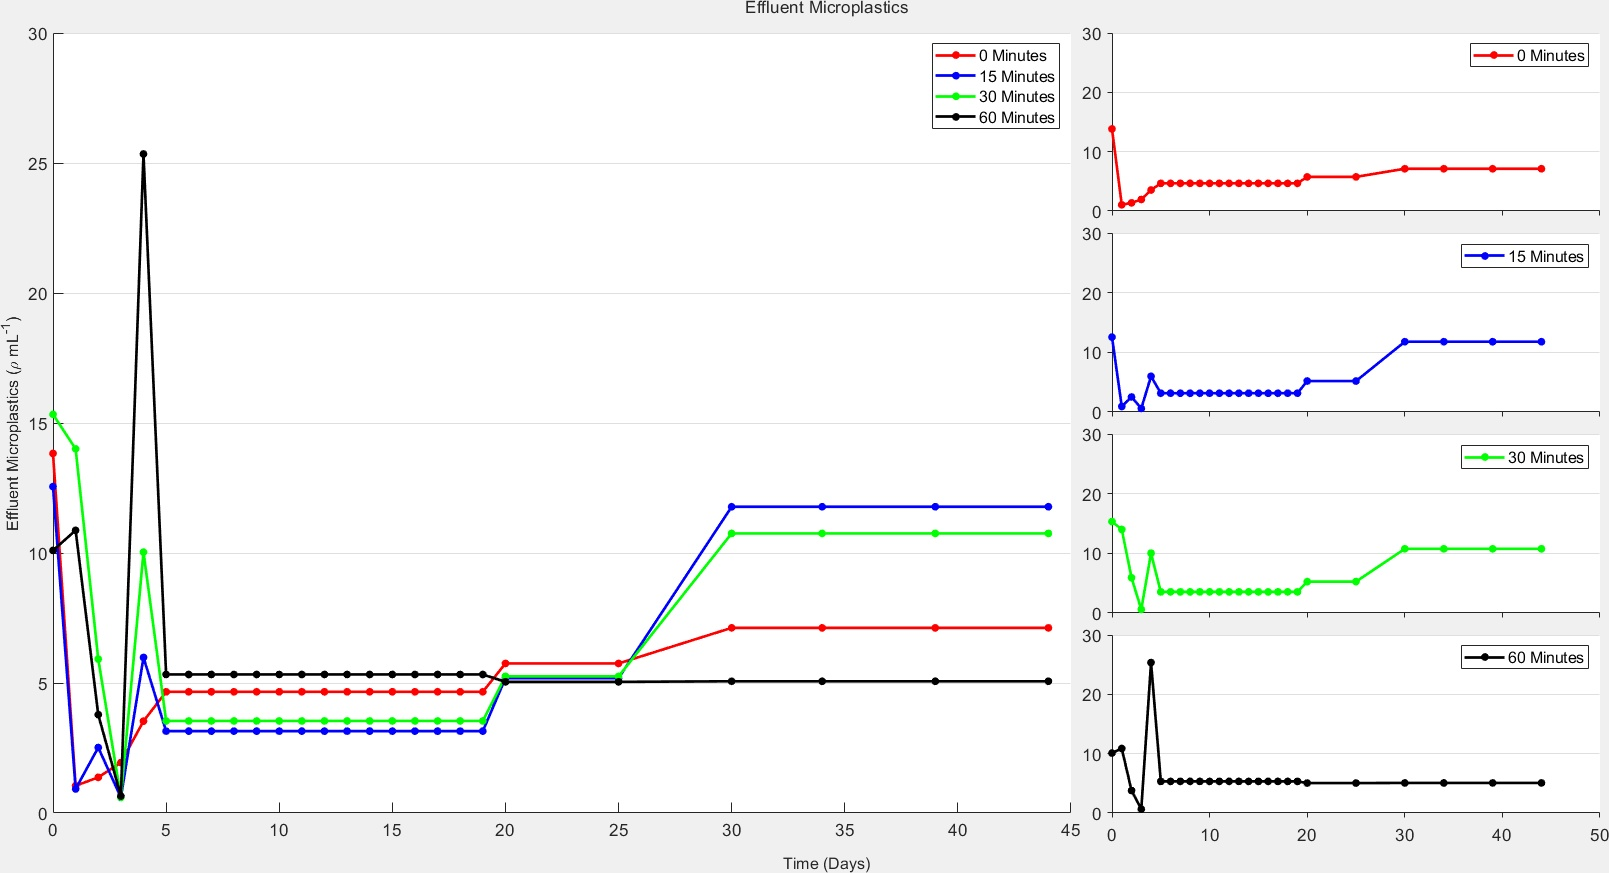
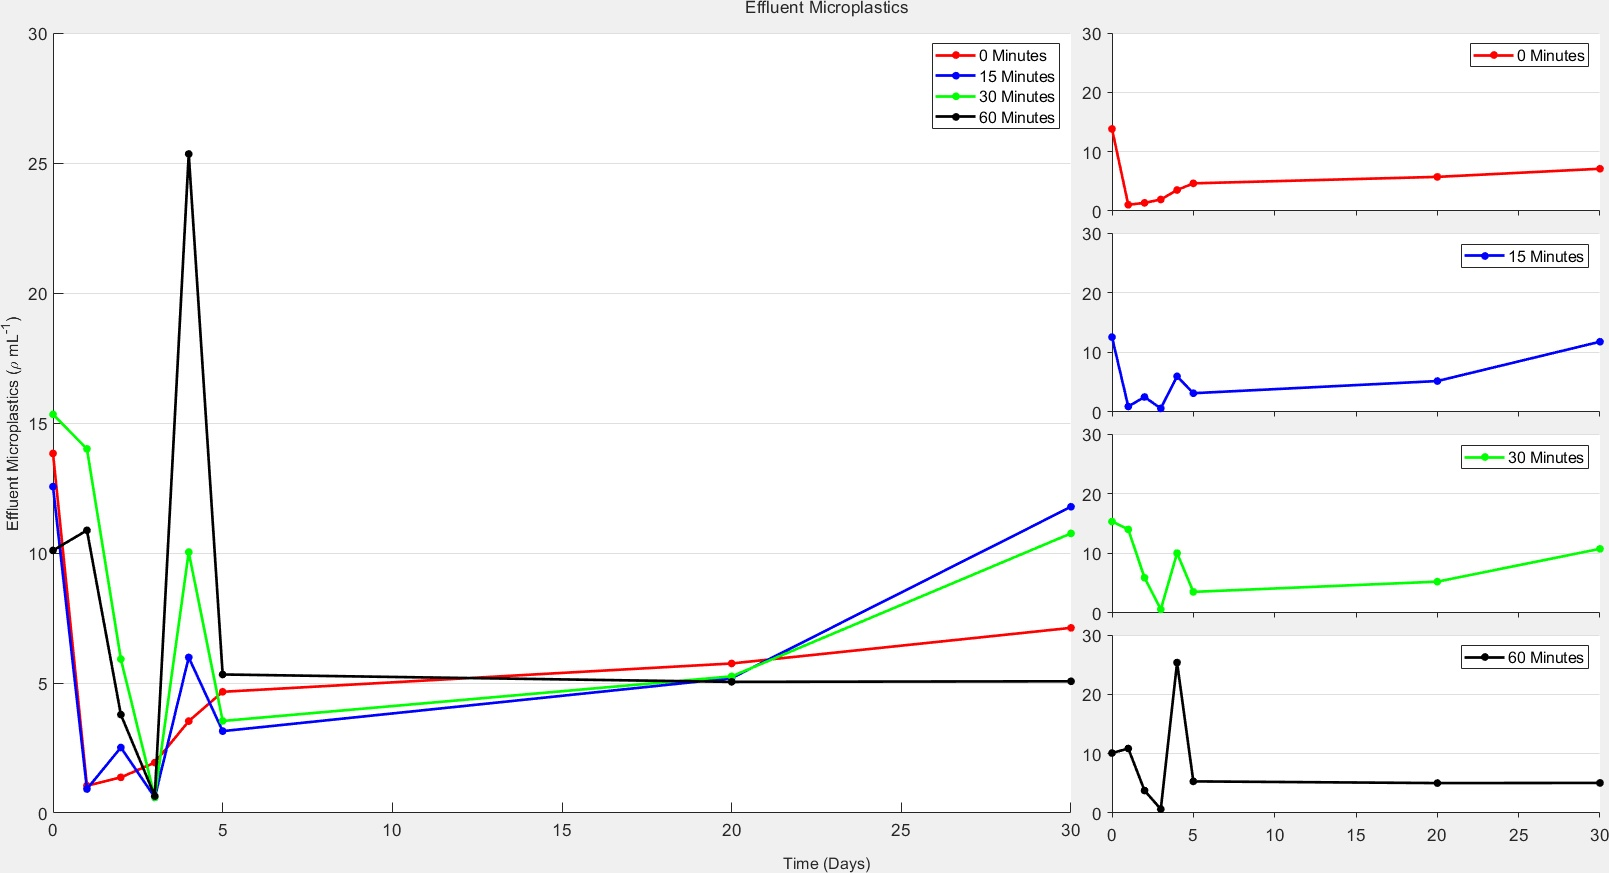
Add files via upload
Place holder / fake data points have been removed. 8 Complete days of data were collected and graphed—only line graphs, not the box plots. Box plots will be continued in the future.

diff --git a/MP_Effluent_Analysis/MP_Effluent_Analysis_Code.m b/MP_Effluent_Analysis/MP_Effluent_Analysis_Code.m
@@ -52,94 +52,6 @@ end
 
 save('MP_Effluent_Analysis_Data.mat');
 
-T = [0:20,25,30,34,39,44];
-
-% % This is a 4x3 tiledlayout graph with everything centered
-% % CHAOS!!!!!!!!!!!!!!!!!!!!!!!
-% 
-% Effluent_Analysis = figure('DefaultAxesFontSize', 14);
-% 
-% All_Effluent = tiledlayout(4,3);
-% 
-% nexttile(1,[4 2])
-% hold
-% plot(T,A,'r.-','MarkerSize',20,'LineWidth',2)
-% plot(T,B,'b.-','MarkerSize',20,'LineWidth',2)
-% plot(T,C,'g.-','MarkerSize',20,'LineWidth',2)
-% plot(T,D,'k.-','MarkerSize',20,'LineWidth',2)
-% ax = gca;
-% ax.XGrid = 'off';
-% ax.YGrid = 'on';
-% legend('0 Minutes','15 Minutes','30 Minutes','60 Minutes')
-% %xticks([0:20]) xlim([-1 21])
-% ylim([0 30])
-% hold
-% 
-% nexttile(3)
-% hold
-% plot(T,A,'r.-','MarkerSize',20,'LineWidth',2)
-% 
-% %xticks([0:20]) xlim([-1 21])
-% ylim([0 30])
-% ax = gca;
-% ax.XGrid = 'off';
-% ax.YGrid = 'on';
-% set(gca,'xticklabel','','tickdir','out')
-% legend('0 Minutes')
-% hold
-% 
-% nexttile(6)
-% hold
-% plot(T,B,'b.-','MarkerSize',20,'LineWidth',2)
-% 
-% %xticks([0:20]) xlim([-1 21])
-% ylim([0 30])
-% ax = gca;
-% ax.XGrid = 'off';
-% ax.YGrid = 'on';
-% set(gca,'xticklabel','','tickdir','out')
-% legend('15 Minutes')
-% hold
-% 
-% nexttile(9)
-% hold
-% plot(T,C,'g.-','MarkerSize',20,'LineWidth',2)
-% 
-% %xticks([0:20]) xlim([-1 21])
-% ylim([0 30])
-% ax = gca;
-% ax.XGrid = 'off';
-% ax.YGrid = 'on';
-% set(gca,'xticklabel','','tickdir','out')
-% legend('30 Minutes')
-% hold
-% 
-% nexttile(12)
-% hold
-% plot(T,D,'k.-','MarkerSize',20,'LineWidth',2)
-% 
-% %xticks([0:20]) xlim([-1 21])
-% ylim([0 30])
-% ax = gca;
-% ax.XGrid = 'off';
-% ax.YGrid = 'on';
-% set(gca,'tickdir','out')
-% legend('60 Minutes')
-% hold
-% 
-% All_Effluent.TileSpacing = 'tight';
-% All_Effluent.Padding = 'compact';
-% title(All_Effluent,'Effluent Microplastics')
-% xlabel(All_Effluent,'Time (Days)')
-% ylabel(All_Effluent,'Effluent Microplastics (\rho mL^{-1})')
-% 
-% Effluent_Analysis.WindowState = 'maximized';
-% 
-% export_fig(Effluent_Analysis,'Effluent_Analysis.png','-transparent')
-% 
-% Effluent_Analysis.WindowState = 'maximized';
-% export_fig(Effluent_Analysis,'Effluent_Analysis.jpg')
-
 Plastic = [A' B' C' D'];
 Real1 = Plastic(1:6,:);
 Real2 = Plastic(21,:);
@@ -151,14 +63,113 @@ B = Plastic(:,2);
 C = Plastic(:,3);
 D = Plastic(:,4);
 
-figure()
-boxplot(A)
-figure()
-boxplot (B)
-figure()
-boxplot(C)
-figure()
-boxplot(D)
+T = [0,1,2,3,4,5,20,30];
 
-figure()
-boxchart(Plastic)
+% This is a 4x3 tiledlayout graph with everything centered
+% CHAOS!!!!!!!!!!!!!!!!!!!!!!!
+
+Effluent_Analysis = figure('DefaultAxesFontSize', 14);
+
+All_Effluent = tiledlayout(4,3);
+
+nexttile(1,[4 2])
+hold
+plot(T,A,'r.-','MarkerSize',20,'LineWidth',2)
+plot(T,B,'b.-','MarkerSize',20,'LineWidth',2)
+plot(T,C,'g.-','MarkerSize',20,'LineWidth',2)
+plot(T,D,'k.-','MarkerSize',20,'LineWidth',2)
+ax = gca;
+ax.XGrid = 'off';
+ax.YGrid = 'on';
+legend('0 Minutes','15 Minutes','30 Minutes','60 Minutes')
+%xticks([0:20]) xlim([-1 21])
+ylim([0 30])
+hold
+
+nexttile(3)
+hold
+plot(T,A,'r.-','MarkerSize',20,'LineWidth',2)
+
+%xticks([0:20]) xlim([-1 21])
+ylim([0 30])
+ax = gca;
+ax.XGrid = 'off';
+ax.YGrid = 'on';
+set(gca,'xticklabel','','tickdir','out')
+legend('0 Minutes')
+hold
+
+nexttile(6)
+hold
+plot(T,B,'b.-','MarkerSize',20,'LineWidth',2)
+
+%xticks([0:20]) xlim([-1 21])
+ylim([0 30])
+ax = gca;
+ax.XGrid = 'off';
+ax.YGrid = 'on';
+set(gca,'xticklabel','','tickdir','out')
+legend('15 Minutes')
+hold
+
+nexttile(9)
+hold
+plot(T,C,'g.-','MarkerSize',20,'LineWidth',2)
+
+%xticks([0:20]) xlim([-1 21])
+ylim([0 30])
+ax = gca;
+ax.XGrid = 'off';
+ax.YGrid = 'on';
+set(gca,'xticklabel','','tickdir','out')
+legend('30 Minutes')
+hold
+
+nexttile(12)
+hold
+plot(T,D,'k.-','MarkerSize',20,'LineWidth',2)
+
+%xticks([0:20]) xlim([-1 21])
+ylim([0 30])
+ax = gca;
+ax.XGrid = 'off';
+ax.YGrid = 'on';
+set(gca,'tickdir','out')
+legend('60 Minutes')
+hold
+
+All_Effluent.TileSpacing = 'tight';
+All_Effluent.Padding = 'compact';
+title(All_Effluent,'Effluent Microplastics')
+xlabel(All_Effluent,'Time (Days)')
+ylabel(All_Effluent,'Effluent Microplastics (\rho mL^{-1})')
+
+Effluent_Analysis.WindowState = 'maximized';
+
+export_fig(Effluent_Analysis,'Effluent_Analysis.png','-transparent')
+
+Effluent_Analysis.WindowState = 'maximized';
+export_fig(Effluent_Analysis,'Effluent_Analysis.jpg')
+
+% Plastic = [A' B' C' D'];
+% Real1 = Plastic(1:6,:);
+% Real2 = Plastic(21,:);
+% Real3 = Plastic(23,:);
+% Plastic = [Real1;Real2;Real3];
+% 
+% A = Plastic(:,1);
+% B = Plastic(:,2);
+% C = Plastic(:,3);
+% D = Plastic(:,4);
+
+% figure()
+% boxplot(A)
+% figure()
+% boxplot (B)
+% figure()
+% boxplot(C)
+% figure()
+% boxplot(D)
+% 
+% figure()
+% boxchart(Plastic)
